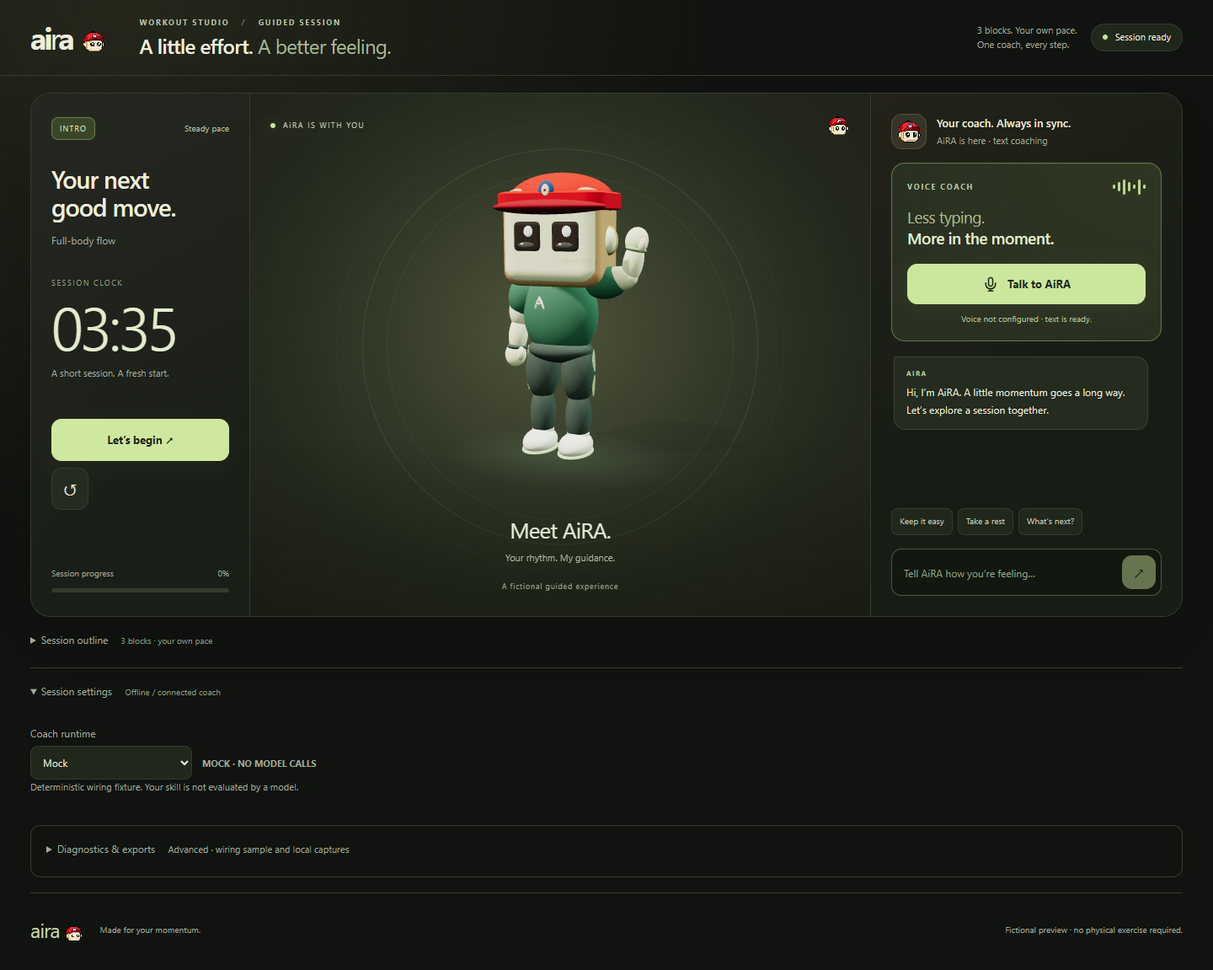
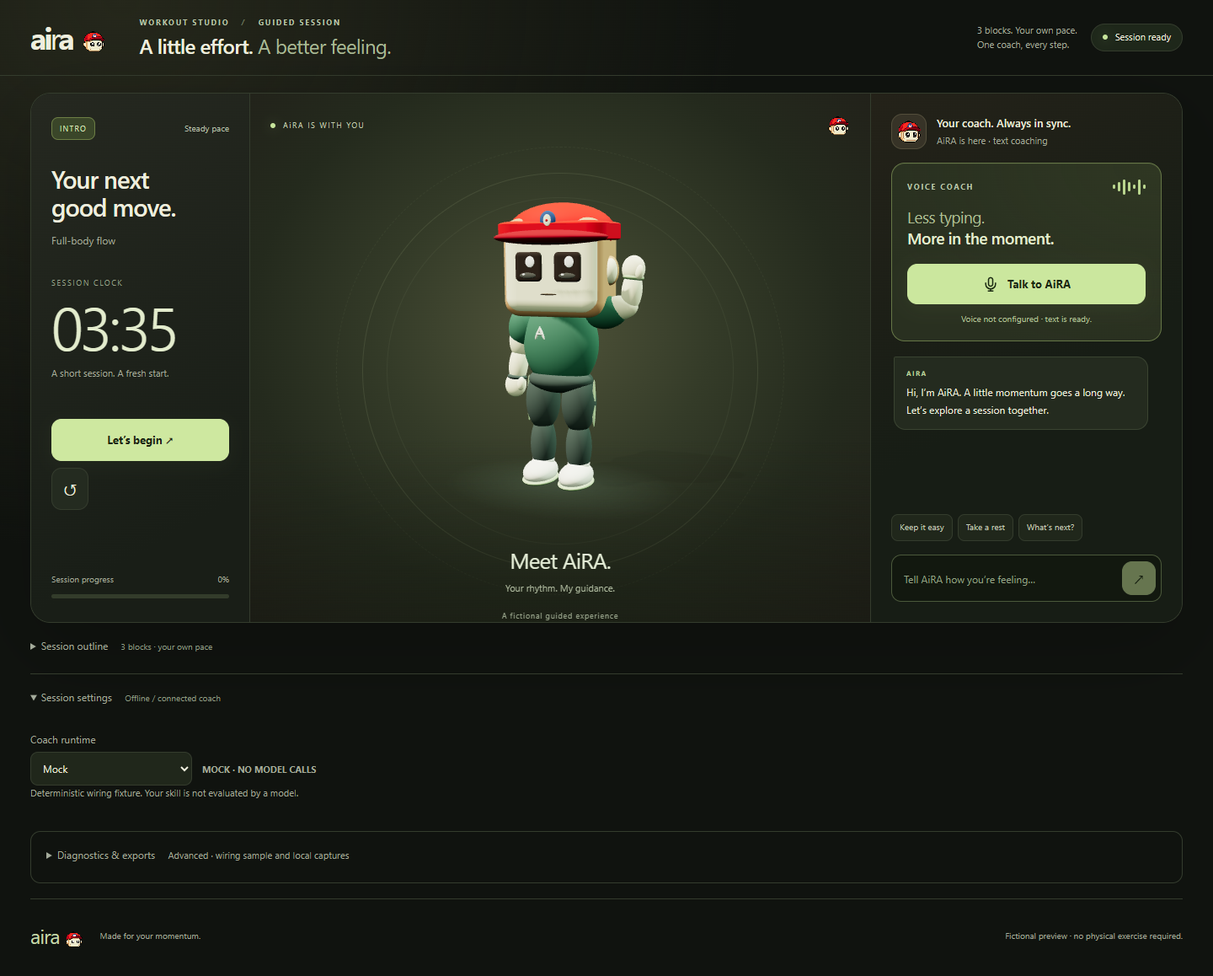
Phase 1 MVP: raise trainer and synchronize mascot with voice playback

diff --git a/src/web/styles.css b/src/web/styles.css
@@ -1,13 +1,13 @@
 /* AiRA studio — local, responsive, with state-driven voice feedback. */
 :root{color-scheme:dark;--ink:#eeeede;--muted:#a4ab9b;--paper:#10130f;--green:#cee8a0;--line:#343c2d;--surface:#191e17;--brown:#352d24;--serif:'Segoe UI',Arial,sans-serif}
 *{box-sizing:border-box}body{margin:0;background:radial-gradient(ellipse at 10% 0%,#25271b 0%,transparent 40%),var(--paper);color:var(--ink);font:14px/1.5 'Segoe UI',Arial,sans-serif}button,input,textarea,select{font:inherit}a{color:inherit}h1,h2,h3,p{margin:0}button{cursor:pointer;min-height:44px;padding:10px 16px;color:var(--ink);background:#242b20;border:1px solid var(--line);border-radius:12px;transition:background .2s,border-color .2s,transform .2s}button:hover:not(:disabled){background:#333f29;border-color:#65744d;transform:translateY(-1px)}button:disabled{opacity:.45;cursor:default}button.primary{background:var(--green);color:#192411;border-color:var(--green);font-weight:650;box-shadow:0 5px 20px #bedf7a0b}button.primary:hover:not(:disabled){background:#e0f6b9;border-color:#e0f6b9}button:focus-visible,input:focus-visible,textarea:focus-visible,select:focus-visible,summary:focus-visible,a:focus-visible{outline:2px solid #d5eca8;outline-offset:4px}button[aria-pressed=true]{border-color:#b5d27e;background:#384429}.topbar{max-width:1500px;padding:20px 36px;margin:auto;display:flex;align-items:center;justify-content:space-between;border-bottom:1px solid var(--line);gap:16px}.brand{text-decoration:none;font-size:36px;font-weight:700;letter-spacing:-3px;line-height:1;display:flex;align-items:center}.brand>span:first-child{font-weight:400}.brand-dot{margin-left:10px;letter-spacing:0}.session-badge{display:flex;align-items:center;gap:9px;border:1px solid var(--line);border-radius:30px;padding:7px 13px;font-size:11px;background:#1e271a}.session-badge i,.live-dot{height:6px;width:6px;border-radius:50%;background:#c6e49b;box-shadow:0 0 12px #bde27c55;display:inline-block}main{max-width:1500px;padding:20px 36px 0;margin:auto}.session-heading{display:flex;align-items:center;justify-content:space-between;flex:1;min-width:0;gap:24px;margin-left:24px}.eyebrow{font-size:9px;font-weight:650;letter-spacing:1.8px;color:#b9c5a8}.heading-divider{margin:0 10px;color:#68745c}h1{font-size:clamp(18px,1.8vw,24px);letter-spacing:-.7px;font-weight:600;line-height:1.25;margin-top:5px}h1 span{color:#a8b995;font-weight:400}.heading-note{font-size:11px;line-height:1.6;color:var(--muted);flex-shrink:0}.session-badge{flex-shrink:0}.session-card{display:grid;grid-template-columns:260px minmax(260px,1fr) 370px;border:1px solid var(--line);border-radius:24px;overflow:hidden;background:var(--surface);box-shadow:0 28px 90px #0003;min-height:620px}.session-main{padding:28px 24px;display:flex;flex-direction:column;min-width:0;background:linear-gradient(150deg,#252820,#191e17 80%);border-right:1px solid var(--line)}.session-topline{display:flex;align-items:center;justify-content:space-between;gap:8px;margin-bottom:30px}.phase-pill{font-size:9px;letter-spacing:1.2px;text-transform:uppercase;border:1px solid #6d7f45;background:#3a4629;color:#d9ebbc;border-radius:8px;padding:6px 9px}.pace-label{font-size:10px;color:#b7c0aa}.session-main h2{font-size:29px;font-weight:550;letter-spacing:-1px;line-height:1.15;text-wrap:balance;min-height:1.1em}.movement-label{font-size:12px;color:var(--muted);margin-top:12px;line-height:1.7}.timer-display{display:flex;flex-direction:column;padding:34px 0 24px;min-height:174px}.timer-eyebrow{font-size:9px;letter-spacing:1.6px;color:#98a18a}.timer-display #session-timer{font-size:72px;line-height:1.2;letter-spacing:-4px;font-weight:350;font-variant-numeric:tabular-nums;display:inline-block;min-width:3.1ch;color:#e3eccd}.timer-display #timer-caption{font-size:11px;color:var(--muted);margin-top:6px}.session-controls{display:flex;flex-wrap:wrap;gap:8px;margin:22px 0}.session-controls .primary{flex:1 1 100%;font-size:13px;padding:14px 16px}.session-controls button:not(.primary){font-size:11px;flex:1;white-space:nowrap;padding:9px}.session-controls .icon-button{max-width:44px;font-size:20px!important}#session-progress{margin-top:auto;padding-top:30px}.session-progress{display:grid;grid-template-columns:1fr auto;gap:10px;font-size:10px;color:var(--muted)}.progress-track{grid-column:1/-1;height:5px;background:#333c2b;border-radius:8px;overflow:hidden}.progress-fill{height:100%;border-radius:8px;background:linear-gradient(90deg,#899f61,#d7eead);transition:width .4s ease}.energy-options{display:flex;flex-wrap:wrap;gap:7px;margin-top:15px}.energy-options button{font-size:11px;padding:8px 10px;min-height:44px}.adaptation-note{margin-top:15px;padding:12px;border:1px solid #53633b;border-radius:10px;background:#2c3622;color:#d2e2b8;font-size:11px;line-height:1.7}
-.trainer-stage{position:relative;min-width:0;overflow:hidden;display:flex;flex-direction:column;align-items:center;justify-content:center;min-height:620px;background:radial-gradient(ellipse at 48% 45%,#50543a 0%,#343b28 36%,#242a1d 65%,#211f19 100%)}.trainer-stage:after{content:'';position:absolute;inset:0;background:linear-gradient(0deg,#13170e75,transparent 35%);pointer-events:none}.trainer-topline{position:absolute;inset:24px 24px auto;display:flex;align-items:center;gap:9px;font-size:9px;letter-spacing:1.5px;color:#c1cbb0;z-index:2}.trainer-symbol{margin-left:auto}.trainer-orbit{position:absolute;top:50%;left:50%;transform:translate(-50%,-52%);width:min(90%,470px);aspect-ratio:1;border:1px solid #bdd29a20;border-radius:50%;pointer-events:none}.trainer-orbit:before,.trainer-orbit:after{content:'';position:absolute;border-radius:50%;border:1px solid #bdd29a10;inset:28px}.trainer-orbit:before{inset:-32px;border-style:dashed}#trainer-mount{height:470px;width:100%;position:relative;margin-top:10px;z-index:1}.trainer-view{height:100%;width:100%;min-height:200px;position:relative}.trainer-view canvas{display:block;width:100%;height:100%;opacity:0;transition:opacity .35s ease}.trainer-view[data-loaded=true] canvas{opacity:1}.trainer-fallback{position:absolute;inset:0;display:grid;place-items:center;padding:30px;text-align:center;color:#d1ddbd;font-size:13px}.trainer-fallback:before{content:'';position:absolute;top:26%;left:50%;transform:translateX(-50%);width:72px;height:72px;background:url('/web/assets/aira-sticker.png') center/contain no-repeat;image-rendering:pixelated}.trainer-signature{text-align:center;position:relative;z-index:2;display:flex;flex-direction:column;gap:6px;margin-top:-10px}.trainer-name{font-size:26px;letter-spacing:-.8px;color:#e3ecd5}.trainer-signature>span:last-child{font-size:11px;color:#b0bca0}.stage-caption{position:relative;font-size:9px;color:#98a48a;margin-top:18px;z-index:2;letter-spacing:.8px}
+.trainer-stage{position:relative;min-width:0;overflow:hidden;display:flex;flex-direction:column;align-items:center;justify-content:flex-start;padding-top:24px;min-height:620px;background:radial-gradient(ellipse at 48% 45%,#50543a 0%,#343b28 36%,#242a1d 65%,#211f19 100%)}.trainer-stage:after{content:'';position:absolute;inset:0;background:linear-gradient(0deg,#13170e75,transparent 35%);pointer-events:none}.trainer-topline{position:absolute;inset:24px 24px auto;display:flex;align-items:center;gap:9px;font-size:9px;letter-spacing:1.5px;color:#c1cbb0;z-index:2}.trainer-symbol{margin-left:auto}.trainer-orbit{position:absolute;left:50%;transform:translate(-50%,0);top:54px;width:min(90%,470px);aspect-ratio:1;border:1px solid #bdd29a20;border-radius:50%;pointer-events:none}.trainer-orbit:before,.trainer-orbit:after{content:'';position:absolute;border-radius:50%;border:1px solid #bdd29a10;inset:28px}.trainer-orbit:before{inset:-32px;border-style:dashed}#trainer-mount{height:470px;width:100%;position:relative;margin-top:10px;z-index:1}.trainer-view{height:100%;width:100%;min-height:200px;position:relative}.trainer-view canvas{display:block;width:100%;height:100%;opacity:0;transition:opacity .35s ease}.trainer-view[data-loaded=true] canvas{opacity:1}.trainer-fallback{position:absolute;inset:0;display:grid;place-items:center;padding:30px;text-align:center;color:#d1ddbd;font-size:13px}.trainer-fallback:before{content:'';position:absolute;top:26%;left:50%;transform:translateX(-50%);width:72px;height:72px;background:url('/web/assets/aira-sticker.png') center/contain no-repeat;image-rendering:pixelated}.trainer-signature{text-align:center;position:relative;z-index:2;display:flex;flex-direction:column;gap:6px;margin-top:-10px}.trainer-name{font-size:26px;letter-spacing:-.8px;color:#e3ecd5}.trainer-signature>span:last-child{font-size:11px;color:#b0bca0}.stage-caption{position:relative;font-size:9px;color:#98a48a;margin-top:18px;z-index:2;letter-spacing:.8px}
 .interaction-panel{min-width:0;background:linear-gradient(150deg,#242219,#171d15 55%);border-left:1px solid var(--line);display:flex;flex-direction:column;padding:24px;gap:15px}.coach-bar{display:flex;flex-direction:column;gap:16px;flex:1;min-height:0}.coach-identity{display:flex;align-items:center;gap:12px}.coach-avatar{display:grid;place-items:center;width:42px;height:42px;border-radius:13px;background:#373327;border:1px solid #534e3b;flex-shrink:0;transition:box-shadow .2s}.coach-identity h2{font-size:13px;font-weight:600}.coach-identity p{font-size:11px;color:var(--muted);margin-top:4px;line-height:1.5}.voice-spotlight{padding:18px;border:1px solid #667747;border-radius:16px;background:radial-gradient(ellipse at 100% 0%,#4c593029,transparent 80%),#293020;box-shadow:inset 0 1px #cce9960d}.voice-spotlight-top{display:flex;justify-content:space-between;align-items:center;margin-bottom:13px}.voice-spotlight p{font-size:19px;line-height:1.35;letter-spacing:-.5px;color:#aebf95}.voice-spotlight strong{font-weight:500;color:#e4edcf}.voice-button{width:100%;background:#cbe79e;border:1px solid #cbe79e;color:#1a2811;font-size:13px;min-height:48px;display:flex;justify-content:center;align-items:center;gap:10px;margin-top:17px;font-weight:650;box-shadow:0 4px 22px #aaca6c12}.voice-button:hover:not(:disabled){background:#e0f5bd;color:#192411}.voice-icon{display:flex}.voice-helper{display:block;text-align:center;font-size:10px;color:#b3c299;margin-top:10px}.voice-wave{display:flex;align-items:center;gap:3px;height:20px}.voice-wave i{width:3px;height:5px;border-radius:3px;background:#b9d58e}.voice-wave i:nth-child(2n){height:11px}.voice-wave i:nth-child(3n){height:18px}.coach-bar:has(#session-voice[data-state=listening]) .voice-wave i,.coach-bar:has(#session-voice[data-state=speaking]) .voice-wave i{animation:voice-wave 1s ease-in-out infinite alternate}.voice-wave i:nth-child(2n){animation-delay:-.3s!important}.voice-wave i:nth-child(3n){animation-delay:-.6s!important}.voice-button[data-state=listening],.voice-button[data-state=speaking]{box-shadow:0 0 0 3px #c5e49320,0 0 28px #c5e49320}.coach-bar:has(#session-voice[data-state=thinking]) .voice-wave{opacity:.5}.voice-button[data-state=error]{background:#dfc199;border-color:#dfc199}.coach-bar:has(#session-voice[data-state=listening]) .coach-avatar,.coach-bar:has(#session-voice[data-state=speaking]) .coach-avatar{box-shadow:0 0 0 3px #c5e49320}.coach-history{flex:1;min-height:140px;max-height:235px;overflow:auto;overscroll-behavior:contain;scrollbar-width:thin;scrollbar-color:#536340 transparent;display:flex;flex-direction:column;gap:13px;padding:2px 3px 5px;overflow-wrap:anywhere}.chat-message{padding:12px 14px;border:1px solid #3a4431;background:#242b1f;border-radius:2px 14px 14px 14px;font-size:12px;line-height:1.75;max-width:96%;flex-shrink:0}.chat-speaker{display:block;color:#bdd39e;text-transform:uppercase;font-size:8px;font-weight:650;letter-spacing:1.4px;margin-bottom:5px}.chat-user{align-self:flex-end;background:#342d24;border-color:#4c4130;border-radius:14px 2px 14px 14px}.chat-user .chat-speaker{color:#d7ba8e}.coach-shortcuts{display:flex;flex-wrap:wrap;gap:6px}.coach-shortcuts button{font-size:10px;min-height:32px;padding:5px 9px;border-radius:8px;background:#20271b;color:#c5cdb8}#coach-composer{display:flex;align-items:center;gap:6px;padding:5px 6px 5px 12px;background:#12180f;border:1px solid #4b593b;border-radius:12px}#coach-input{background:none;border:0;color:var(--ink);font-size:16px;min-height:44px;min-width:0;width:100%}#coach-input::placeholder{font-size:12px;color:#96a486}#coach-composer button{width:40px;height:40px;min-height:40px;flex-shrink:0;padding:0;background:#cbe79e;border-color:#cbe79e;color:#1a2811;font-size:19px}.last-input{display:none}.voice-note{font-size:12px;line-height:1.7;padding:12px;background:#2d3323;border-radius:10px;color:#c0c9b0}.voice-panel{padding:18px;border:1px solid #56663d;border-radius:14px;background:#1b2316}.voice-heading{display:flex;align-items:flex-start;justify-content:space-between;gap:12px}.voice-heading h2{font-size:18px;letter-spacing:-.5px;margin:6px 0 12px}.voice-state{font-size:10px;color:#c8d4b6;display:flex;align-items:center;gap:7px;max-width:120px}.voice-state:before{content:'';height:7px;width:7px;border-radius:50%;background:#8c947f;flex-shrink:0}.voice-panel[data-state=listening] .voice-state:before,.voice-panel[data-state=speaking] .voice-state:before{background:#cbe79e;box-shadow:0 0 0 4px #cbe79e15}.voice-panel[data-state=thinking] .voice-state:before{background:#dbbe8f;animation:voice-pulse 1s infinite}.voice-consent{display:flex;align-items:flex-start;gap:9px;font-size:11px;line-height:1.7;margin:15px 0;color:#bdc7af}.voice-consent input{margin-top:4px;flex-shrink:0;accent-color:#bcd893}.voice-controls{display:flex;flex-wrap:wrap;gap:7px}.voice-controls button{font-size:11px;padding:8px 10px;flex:1 1 auto}.voice-controls .primary{flex-basis:100%}.voice-transcript-details{margin:14px 0}.voice-transcript-details summary{font-size:11px;min-height:44px;padding-top:12px}.voice-transcript{max-height:180px;overflow:auto;overflow-wrap:anywhere;font-size:12px}.voice-transcript p{padding:10px;background:#2b3422;border-radius:9px;margin-top:8px}#voice-empty{padding:10px 0}#voice-error{padding:12px;background:#392b23;border:1px solid #704b32;border-radius:10px;color:#efc4a1;font-size:12px;margin-top:12px}
 .session-plan,.settings{border-bottom:1px solid var(--line);padding:18px 0;color:var(--muted);font-size:12px}summary{cursor:pointer;list-style-position:inside;min-height:24px}summary>span{font-size:10px;color:#909d83;margin-left:12px}#session-path{display:grid;grid-template-columns:repeat(10,1fr);list-style:none;margin:20px 0 0;padding:0;gap:8px}#session-path li{border-top:2px solid #434c36;padding-top:10px;display:flex;flex-direction:column;gap:3px;font-size:10px;text-transform:capitalize;color:#9ba68f}#session-path li.current{color:#d8eaba;border-color:#c5e395}#session-path li.done{border-color:#809a5c}.step-number{font-size:9px}.provider-panel{padding:16px 0}.micro{font-size:11px;color:var(--muted);line-height:1.7}.provider-panel strong{font-size:11px;margin-left:12px}label{display:block;margin:10px 0 6px}select,textarea{background:#20271b;color:var(--ink);border:1px solid var(--line);border-radius:9px;padding:10px}textarea{width:100%;resize:vertical}.provider-panel select{max-width:100%}.builder{margin-top:20px;padding:18px;border:1px solid var(--line);border-radius:12px}.row{display:flex;align-items:center;gap:10px;flex-wrap:wrap;margin:12px 0}.workspace,.tools-grid{display:grid;grid-template-columns:1fr 1fr;gap:20px;margin-top:20px}.conversation,.preview,.tools-grid>section{background:#1b2216;border:1px solid var(--line);border-radius:12px;padding:20px;min-width:0}.panel-heading{display:flex;justify-content:space-between;align-items:center;margin-bottom:14px}.panel-heading h2,.spoken h2{font-size:14px}#transcript{height:245px;overflow:auto;overflow-wrap:anywhere}.message{padding:12px 0;border-bottom:1px solid var(--line)}.who,.event{font-size:10px;color:var(--muted)}.event{margin:8px 0}.notice,#error,.alert{padding:12px;background:#303827;border-radius:9px}#screen{min-height:260px}.empty{padding:40px 0}.empty h3{font-size:25px;margin:10px 0}.block{padding:12px 0}.block-title{font-size:26px}.block-subtitle{font-size:20px}.keyword{text-align:center;padding:22px}.keyword strong,.timer strong{font-size:42px;font-variant-numeric:tabular-nums}.timer{padding:15px 0}.timer-status{margin-left:15px}.spoken{border-top:1px solid var(--line);margin-top:15px;padding-top:15px}.progress{display:flex;gap:4px}.progress span{height:3px;background:#434c36;flex:1}.progress span.active{background:var(--green)}pre{max-height:300px;overflow:auto;white-space:pre-wrap;overflow-wrap:anywhere;background:#11180e;padding:12px}.coach-panel{display:flex;gap:14px}.coach-spark{width:28px;height:28px}.coach-panel p{font-size:13px;line-height:1.7}footer{display:flex;align-items:center;gap:20px;padding:25px 0 30px;font-size:10px;color:var(--muted)}footer>span:last-child{margin-left:auto}.footer-brand{text-decoration:none;font-size:24px;letter-spacing:-1px;color:#c6d9ab}.mascot-sticker{display:inline-block;width:28px;height:28px;object-fit:contain;image-rendering:pixelated;vertical-align:middle;flex-shrink:0}.brand-dot .mascot-sticker{width:30px;height:30px}.coach-avatar .mascot-sticker{width:32px;height:32px}.footer-brand .mascot-sticker{width:23px;height:23px;margin-left:5px}.sr-only{position:absolute;width:1px;height:1px;margin:-1px;padding:0;overflow:hidden;clip:rect(0,0,0,0);white-space:nowrap;border:0}.skip-link{position:fixed;top:12px;left:12px;z-index:20;padding:12px 18px;background:#cbe79e;color:#192411;border-radius:10px;transform:translateY(-180%)}.skip-link:focus{transform:none}[hidden]{display:none!important}@keyframes voice-wave{to{transform:scaleY(.4);opacity:.6}}@keyframes voice-pulse{50%{opacity:.4}}
 @media(min-width:1500px){.session-card{grid-template-columns:280px minmax(300px,1fr) 390px;min-height:650px}.trainer-stage{min-height:650px}#trainer-mount{height:500px}.interaction-panel{padding:28px}}
 @media(max-width:1150px){main{padding:20px 24px 0}.topbar{padding:22px 24px}.session-card{grid-template-columns:220px minmax(210px,1fr) 320px}.session-main{padding:24px 18px}.session-main h2{font-size:26px}.interaction-panel{padding:18px}.timer-display #session-timer{font-size:65px}.voice-spotlight{padding:16px}#trainer-mount{height:440px}.trainer-signature{margin-top:0}}
 @media(max-width:900px){.session-card{grid-template-columns:1fr 1fr}.session-main{grid-column:1;grid-row:1}.trainer-stage{grid-column:2;grid-row:1;min-height:500px}.interaction-panel{grid-column:1/-1;border-left:0;border-top:1px solid var(--line)}.coach-bar{display:grid;grid-template-columns:1fr 1fr}.coach-identity{grid-column:1/-1}.voice-spotlight{grid-column:1;grid-row:2/5}.coach-history{grid-column:2;grid-row:2;max-height:200px;min-height:120px}.coach-shortcuts{grid-column:2;grid-row:3}#coach-composer{grid-column:2;grid-row:4}.voice-note{grid-column:1/-1}.voice-panel{max-width:none}.heading-note{display:none}.session-heading{margin-left:8px}.session-main h2{font-size:30px}.timer-display #session-timer{font-size:76px}.session-controls .primary{flex:0 1 auto}.session-controls button:not(.primary){flex:0 1 auto}.session-controls .icon-button{margin-left:auto}#session-progress{padding-top:20px}}
-@media(max-width:620px){main{padding:16px 16px 0}.topbar{padding:16px 18px;display:grid;grid-template-columns:1fr auto;gap:14px}.brand{font-size:31px}.session-badge{font-size:10px;padding:6px 10px}.session-heading{grid-column:1/-1;grid-row:2;margin:0;gap:8px}.session-badge{grid-column:2;grid-row:1}h1{font-size:20px;letter-spacing:-.6px;margin-top:4px}.eyebrow{font-size:8px;letter-spacing:1.3px}.session-card{display:flex;flex-direction:column;border-radius:18px}.trainer-stage{order:0;height:215px;min-height:215px}.trainer-topline{inset:15px 17px auto;font-size:8px}.trainer-orbit{width:200px;top:47%}.trainer-orbit:before{inset:-15px}#trainer-mount{height:215px;margin:0}.trainer-signature{position:absolute;left:16px;bottom:14px;text-align:left;margin:0}.trainer-name{font-size:18px}.trainer-signature>span:last-child{font-size:9px}.stage-caption{position:absolute;right:14px;bottom:15px;font-size:8px;letter-spacing:0;max-width:80px;text-align:right;margin:0}.session-main{order:1;border-right:0;padding:20px;border-top:1px solid var(--line)}.session-topline{margin-bottom:15px}.session-main h2{font-size:27px}.movement-label{margin-top:7px}.timer-display{padding:18px 0 8px;min-height:125px}.timer-display #session-timer{font-size:62px;letter-spacing:-3px}.timer-eyebrow{font-size:8px}.timer-display #timer-caption{font-size:10px}.session-controls{margin:12px 0 10px}.session-controls .primary{padding:11px 16px;flex:1}.session-controls button:not(.primary){flex:0 1 auto}.session-controls #session-end{padding-inline:9px}#session-progress{padding-top:15px}.interaction-panel{order:2;padding:20px;border-top:1px solid var(--line)}.coach-bar{display:flex;gap:16px}.coach-history{min-height:150px;max-height:240px}.voice-spotlight{padding:17px}.voice-spotlight p{font-size:22px}.voice-spotlight p br{display:none}.voice-spotlight p strong{margin-left:6px}.voice-button{margin-top:15px}.coach-shortcuts button{min-height:40px;font-size:11px}#coach-composer{width:100%}.voice-heading{gap:10px}.voice-consent{font-size:12px}.voice-controls button{min-height:44px}#session-path{grid-template-columns:repeat(5,1fr);row-gap:16px}.workspace,.tools-grid{grid-template-columns:1fr}.session-plan,.settings{padding:18px 0}.builder summary>span{display:block;margin:5px 0}footer{flex-wrap:wrap;gap:12px}footer>span:last-child{margin-left:0;width:100%}}
+@media(max-width:620px){main{padding:16px 16px 0}.topbar{padding:16px 18px;display:grid;grid-template-columns:1fr auto;gap:14px}.brand{font-size:31px}.session-badge{font-size:10px;padding:6px 10px}.session-heading{grid-column:1/-1;grid-row:2;margin:0;gap:8px}.session-badge{grid-column:2;grid-row:1}h1{font-size:20px;letter-spacing:-.6px;margin-top:4px}.eyebrow{font-size:8px;letter-spacing:1.3px}.session-card{display:flex;flex-direction:column;border-radius:18px}.trainer-stage{order:0;height:215px;min-height:215px;padding-top:0}.trainer-topline{inset:15px 17px auto;font-size:8px}.trainer-orbit{width:200px;top:47%;transform:translate(-50%,-52%)}.trainer-orbit:before{inset:-15px}#trainer-mount{height:215px;margin:0}.trainer-signature{position:absolute;left:16px;bottom:14px;text-align:left;margin:0}.trainer-name{font-size:18px}.trainer-signature>span:last-child{font-size:9px}.stage-caption{position:absolute;right:14px;bottom:15px;font-size:8px;letter-spacing:0;max-width:80px;text-align:right;margin:0}.session-main{order:1;border-right:0;padding:20px;border-top:1px solid var(--line)}.session-topline{margin-bottom:15px}.session-main h2{font-size:27px}.movement-label{margin-top:7px}.timer-display{padding:18px 0 8px;min-height:125px}.timer-display #session-timer{font-size:62px;letter-spacing:-3px}.timer-eyebrow{font-size:8px}.timer-display #timer-caption{font-size:10px}.session-controls{margin:12px 0 10px}.session-controls .primary{padding:11px 16px;flex:1}.session-controls button:not(.primary){flex:0 1 auto}.session-controls #session-end{padding-inline:9px}#session-progress{padding-top:15px}.interaction-panel{order:2;padding:20px;border-top:1px solid var(--line)}.coach-bar{display:flex;gap:16px}.coach-history{min-height:150px;max-height:240px}.voice-spotlight{padding:17px}.voice-spotlight p{font-size:22px}.voice-spotlight p br{display:none}.voice-spotlight p strong{margin-left:6px}.voice-button{margin-top:15px}.coach-shortcuts button{min-height:40px;font-size:11px}#coach-composer{width:100%}.voice-heading{gap:10px}.voice-consent{font-size:12px}.voice-controls button{min-height:44px}#session-path{grid-template-columns:repeat(5,1fr);row-gap:16px}.workspace,.tools-grid{grid-template-columns:1fr}.session-plan,.settings{padding:18px 0}.builder summary>span{display:block;margin:5px 0}footer{flex-wrap:wrap;gap:12px}footer>span:last-child{margin-left:0;width:100%}}
 @media(max-width:360px){main{padding:14px 12px 0}.session-main,.interaction-panel{padding:17px}.session-main h2{font-size:25px}.session-controls{gap:6px}.session-controls button{font-size:10px}.session-controls .primary{padding-inline:12px}.voice-spotlight p{font-size:20px}.voice-spotlight p strong{margin-left:0}}
 @media(prefers-reduced-motion:reduce){*,*:before,*:after{animation:none!important;transition:none!important;scroll-behavior:auto!important}}
 

diff --git a/src/web/trainer.ts b/src/web/trainer.ts
@@ -2,7 +2,7 @@ import * as THREE from 'three';
 import { GLTFLoader } from 'three/addons/loaders/GLTFLoader.js';
 import type { TrainerAnimation } from '../shared/workout/state.js';
 
-export type TrainerView = { element: HTMLElement; update: (animation: TrainerAnimation, paused: boolean, movement?: string | null) => void; dispose: () => void };
+export type TrainerView = { element: HTMLElement; setSpeechSource: (source: () => number) => void; update: (animation: TrainerAnimation, paused: boolean, movement?: string | null) => void; dispose: () => void };
 export function createTrainer(animation: TrainerAnimation): TrainerView {
   const element = document.createElement('div'); element.className = 'trainer-view';
   element.setAttribute('role', 'img'); element.setAttribute('aria-label', 'AiRA, your animated training companion');
@@ -11,6 +11,7 @@ export function createTrainer(animation: TrainerAnimation): TrainerView {
   element.append(fallback);
   let desired = animation, paused = false, disposed = false, frame = 0, mixer: THREE.AnimationMixer | undefined;
   let movement = '';
+  let speechSource = () => 0, mouth: THREE.Mesh | undefined, mouthOpen = 0;
   let needsRender = true;
   let renderer: THREE.WebGLRenderer | undefined, model: THREE.Group | undefined, active: THREE.AnimationAction | undefined;
   const actions = new Map<string, THREE.AnimationAction>();
@@ -66,7 +67,12 @@ export function createTrainer(animation: TrainerAnimation): TrainerView {
       if (element.isConnected && element.clientHeight && !document.hidden) {
         const moving = Boolean(mixer) && !paused && !reduced.matches;
         if (moving) mixer?.update(delta);
-        if (moving || needsRender) { renderer?.render(scene, camera); needsRender = false; }
+        const level = reduced.matches ? 0 : Math.max(0, Math.min(1, speechSource()));
+        mouthOpen += (level - mouthOpen) * (1 - Math.exp(-delta * 24));
+        if (mouth) mouth.scale.y = 0.16 + mouthOpen * 1.5;
+        element.dataset.speaking = String(level > 0.015);
+        element.dataset.animationTime = (active?.time ?? 0).toFixed(3);
+        if (moving || needsRender || level > 0 || mouthOpen > 0.001) { renderer?.render(scene, camera); needsRender = false; }
       }
     }
     frame = requestAnimationFrame(draw);
@@ -80,13 +86,19 @@ export function createTrainer(animation: TrainerAnimation): TrainerView {
     new GLTFLoader().load('/web/assets/aira-trainer.glb', gltf => {
       if (disposed) { gltf.scene.traverse(object => { if (object instanceof THREE.Mesh) { object.geometry.dispose(); for (const material of Array.isArray(object.material) ? object.material : [object.material]) material.dispose(); } }); return; }
       model = gltf.scene; model.traverse(object => { if (object instanceof THREE.Mesh) { object.castShadow = true; object.receiveShadow = true; } });
+      const head = model.getObjectByName('HeadPivot');
+      if (head) {
+        mouth = new THREE.Mesh(new THREE.SphereGeometry(1, 16, 12), new THREE.MeshStandardMaterial({ color: 0x493c2c, roughness: 0.85 }));
+        mouth.name = 'VoiceMouth'; mouth.position.set(0, -0.22, 0.366); mouth.geometry.scale(0.075, 0.042, 0.012); mouth.scale.y = 0.16;
+        head.add(mouth);
+      }
       scene.add(model); mixer = new THREE.AnimationMixer(model);
       for (const clip of gltf.animations) actions.set(clip.name, mixer.clipAction(clip));
       setAction(); fallback.hidden = true; element.dataset.loaded = 'true'; element.setAttribute('aria-busy', 'false');
     }, undefined, () => { element.dataset.loaded = 'fallback'; element.setAttribute('aria-busy', 'false'); fallback.textContent = 'AiRA is here. Animation unavailable.'; });
     frame = requestAnimationFrame(draw);
   } catch { element.dataset.loaded = 'fallback'; element.setAttribute('aria-busy', 'false'); fallback.textContent = 'AiRA is here. Animation unavailable.'; }
-  return { element, update: (next, stopped, label) => { desired = next; paused = stopped; movement = label ?? ''; element.dataset.paused = String(stopped); setAction(); },
+  return { element, setSpeechSource: source => { speechSource = source; }, update: (next, stopped, label) => { desired = next; paused = stopped; movement = label ?? ''; element.dataset.paused = String(stopped); setAction(); },
     dispose: () => {
       if (disposed) return; disposed = true; cancelAnimationFrame(frame); observer.disconnect();
       mixer?.stopAllAction(); if (model) mixer?.uncacheRoot(model);

diff --git a/src/web/gemini-audio.ts b/src/web/gemini-audio.ts
@@ -23,9 +23,18 @@ export class GeminiAudio {
   private silent?: GainNode;
   private sources = new Set<AudioBufferSourceNode>();
   private nextTime = 0;
+  private analyser: AnalyserNode;
+  private waveform = new Float32Array(256);
+  get outputLevel() {
+    if (!this.sources.size || this.context.state !== 'running') return 0;
+    this.analyser.getFloatTimeDomainData(this.waveform);
+    let energy = 0; for (const sample of this.waveform) energy += sample * sample;
+    return Math.min(1, Math.sqrt(energy / this.waveform.length) * 8);
+  }
   constructor(private playbackChanged: (playing: boolean) => void) {
     try { this.context = new AudioContext({ sampleRate: 16000, latencyHint: 'interactive' }); }
     catch { this.context = new AudioContext({ latencyHint: 'interactive' }); }
+    this.analyser = this.context.createAnalyser(); this.analyser.fftSize = 256; this.analyser.connect(this.context.destination);
   }
   async resume() { await this.context.resume(); }
   async captureMicrophone(stream: MediaStream, chunk: (data: string, rate: number, level: number, frameMs: number) => void) {
@@ -51,7 +60,7 @@ export class GeminiAudio {
     if (!samples.length || rate !== 24000) throw new Error('Unexpected voice audio format.');
     if (this.nextTime - this.context.currentTime > 20) throw new Error('Voice playback is falling behind.');
     const buffer = this.context.createBuffer(1, samples.length, rate); buffer.getChannelData(0).set(samples);
-    const source = this.context.createBufferSource(); source.buffer = buffer; source.connect(this.context.destination);
+    const source = this.context.createBufferSource(); source.buffer = buffer; source.connect(this.analyser);
     this.nextTime = Math.max(this.nextTime, this.context.currentTime + 0.015);
     this.sources.add(source); this.playbackChanged(true);
     source.onended = () => { source.disconnect(); this.sources.delete(source); if (!this.sources.size) this.playbackChanged(false); };
@@ -61,5 +70,5 @@ export class GeminiAudio {
     for (const source of this.sources) { source.onended = null; source.stop(); source.disconnect(); }
     this.sources.clear(); this.nextTime = 0; this.playbackChanged(false);
   }
-  close() { this.stopMicrophone(); this.interrupt(); void this.context.close().catch(() => {}); }
+  close() { this.stopMicrophone(); this.interrupt(); this.analyser.disconnect(); void this.context.close().catch(() => {}); }
 }

diff --git a/src/web/session.ts b/src/web/session.ts
@@ -41,7 +41,7 @@ export function mountSession(conversation: Conversation, liveSend: (text: string
       serializeStatement('coach', 'CoachPanel', [state.coachCue, state.phase])].join('\n');
     const screen = (validateProgram(code).props.screens as StatementNode[])[0];
     const nodes = screen.props.children as StatementNode[];
-    if (!trainer) { trainer = renderComponent(nodes[0], context); byId('trainer-mount').append(trainer); }
+    if (!trainer) { trainer = renderComponent(nodes[0], context); byId('trainer-mount').append(trainer); trainerViews.get(trainer)?.setSpeechSource(() => voice.outputLevel); }
     trainerViews.get(trainer)?.update(state.trainerAnimation, state.paused, state.movementLabel);
     const progress = byId('session-progress');
     if (!progress.childNodes.length) progress.append(renderComponent(nodes[1], context));

diff --git a/src/web/gemini-live-client.ts b/src/web/gemini-live-client.ts
@@ -67,6 +67,7 @@ export class GeminiLiveCoach {
     window.addEventListener('pagehide', () => this.disconnect());
     void this.loadConfig();
   }
+  get outputLevel() { return this.playing ? this.audio?.outputLevel ?? 0 : 0; }
   get connected() { return Boolean(this.live); }
   get feedbackLabel() {
     return ({ connecting: 'Connecting voice · text is available', listening: 'Listening · speak or type', thinking: 'AiRA is thinking…', speaking: 'AiRA speaking · interrupt anytime', muted: 'Microphone muted · type to continue', error: 'Voice paused · text is available', disabled: '', disconnected: '' })[this.status];

diff --git a/README.md b/README.md
@@ -17,6 +17,8 @@ npm start
 
 Open http://127.0.0.1:4319. Stop with Ctrl+C. Change `PORT` in a local `.env` if needed.
 
+The trainer’s exercise clip follows canonical WorkoutState, including pause and recovery. Its mouth follows the outgoing audio level and closes on interruption or stop; this is audio-reactive motion, not phoneme-level lip sync. Reduced-motion preferences suppress these animations.
+
 The primary offline coach uses authored local session policy rather than a model. **Session settings** contains optional provider setup and usage consent. Configured live text receives a workout snapshot; only an accepted reply for the current coaching context may update the cue. Local session commands work in either mode. Live text provider calls remain opt-in and have not been tested with real credentials. Gemini voice has been tested separately with authorized synthetic speech; see docs/VOICE.md.
 
 **Session settings → Diagnostics & exports → Load wiring sample** preserves the original fixture workflow: `/demo`, `next`, `back`, and `change value to 6`. It remains separate from workout progression. Prompt/skill edits load on the next model request; source changes need a restart and browser reload.
